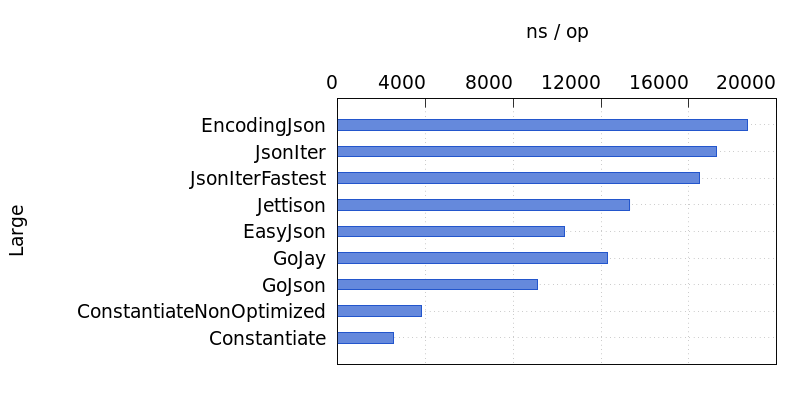
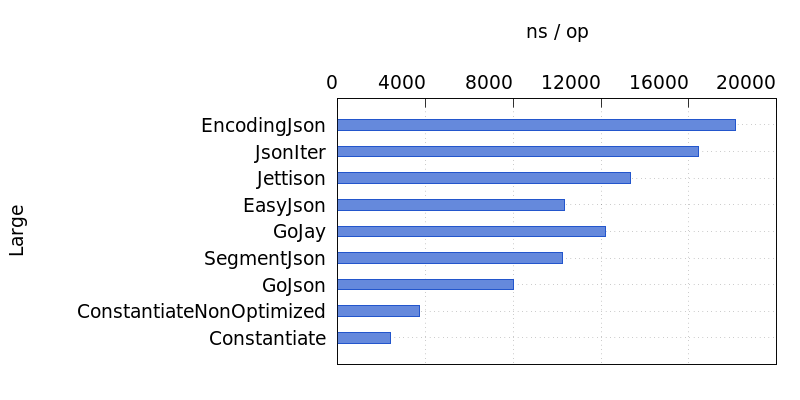
Clean: update benchmark results

diff --git a/README.md b/README.md
@@ -66,20 +66,20 @@ type M map[string]string
 |Name in graph|Description|
 |---|---|
 |EncodingJson|[doc](https://golang.org/pkg/encoding/json/)|
-|JsonIter|[GitHub](https://github.com/json-iterator/go) ConfigCompatibleWithStandardLibrary|
-|JsonIterFastest|[GitHub](https://github.com/json-iterator/go) ConfigFastest|
+|JsonIterFastest|[GitHub](https://github.com/json-iterator/go) ConfigCompatibleWithStandardLibrary|
 |Jettison|[GitHub](https://github.com/wI2L/jettison) NoHTMLEscaping,NoUTF8Coercion,UnsortedMap,NoCompact|
 |EasyJson|[GitHub](https://github.com/mailru/easyjson)|
 |GoJay|[GitHub](https://github.com/francoispqt/gojay)|
+|SegmentJson|[GitHub](https://github.com/segmentio/encoding/blob/master/json/README.md)|
 |GoJson|[GitHub](https://github.com/goccy/go-json)|
 |ConstantiateNonOptimized|This one. Not using Extended options.|
 |Constantiate|This one. Using Extended options.|
 
 ### SmallStruct
-![Small](https://user-images.githubusercontent.com/49056869/92929434-7dfb5700-f47b-11ea-9890-999ed4256337.png)
+![Small](https://user-images.githubusercontent.com/49056869/92930893-a421f680-f47d-11ea-9bf9-4b8657a9b803.png)
 
 ### MediumStruct
-![Medium](https://user-images.githubusercontent.com/49056869/92929432-7dfb5700-f47b-11ea-8d09-4caed65569bc.png)
+![Medium](https://user-images.githubusercontent.com/49056869/92930900-a5532380-f47d-11ea-9114-744fd514a704.png)
 
 ### LargeStruct
-![Large](https://user-images.githubusercontent.com/49056869/92929429-7cca2a00-f47b-11ea-90ac-a47f64562441.png)
+![Large](https://user-images.githubusercontent.com/49056869/92930896-a5532380-f47d-11ea-8aef-07db44175bc4.png)
